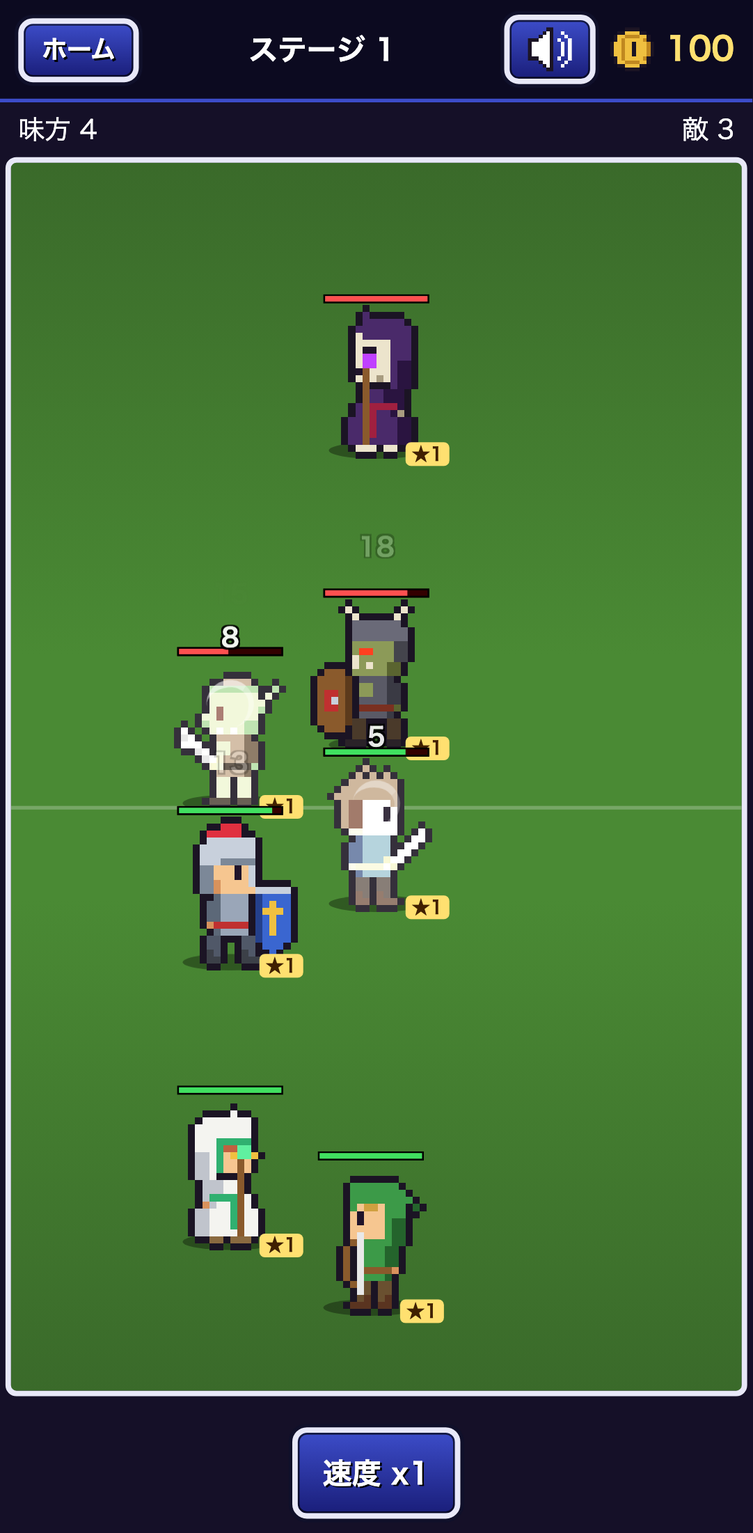
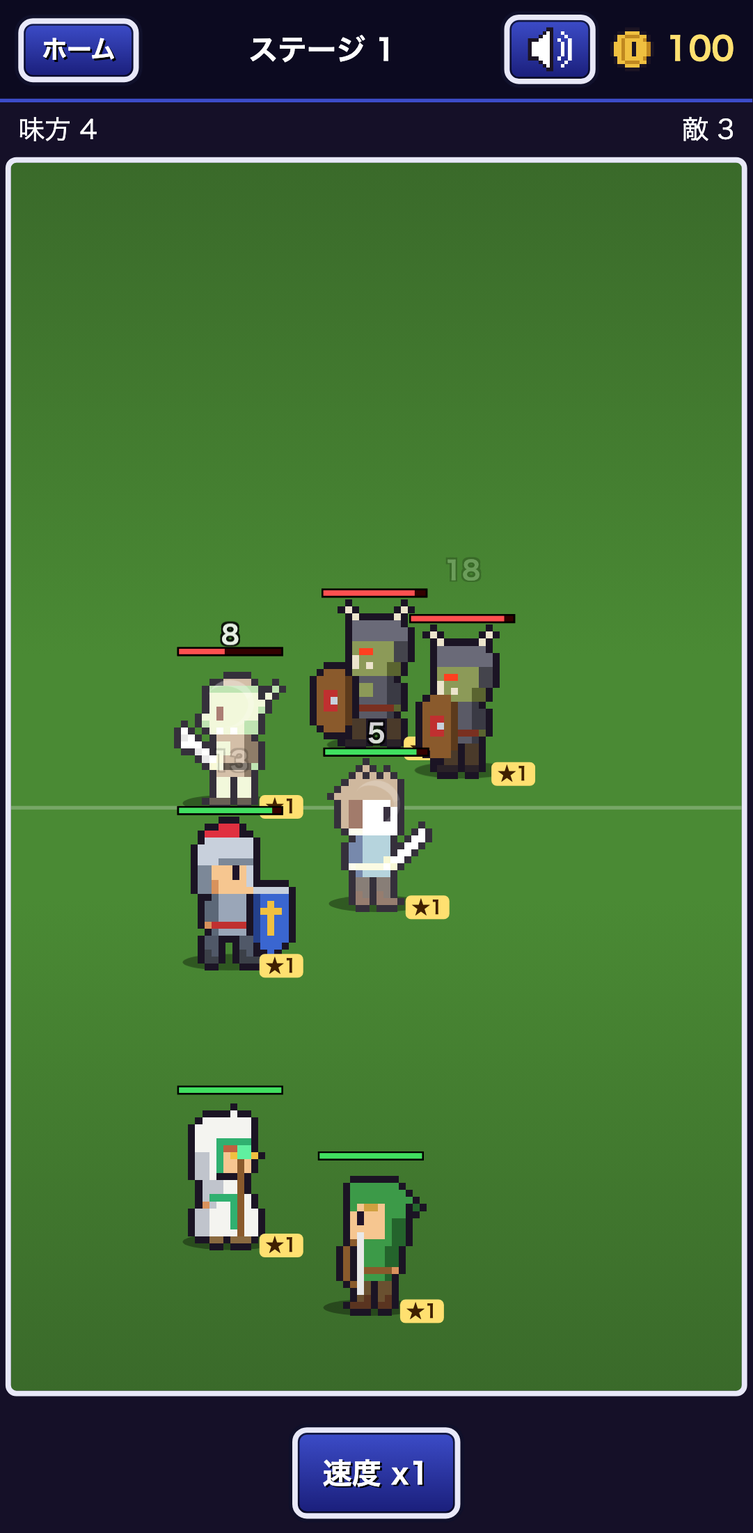
魔法を最大HP割合の範囲攻撃にし、敵も魔法を使うように変更
- 魔法使い・リッチ・召喚士の魔法は範囲内の敵全員の最大HPの一定割合を削る（防御無視、ランク・武器・バフで割合増、上限あり）
- ステージ2以降の敵編成に魔法使いを必ず配置（約8体に1体）
- 魔法範囲の表示（味方オレンジ／敵紫）、魔法ダメージの色、詳細画面の魔法割合表示
- 説明文（4言語）・README・テストを更新

diff --git a/js/i18n.js b/js/i18n.js
@@ -10,6 +10,7 @@ export const STRINGS = {
     'common.close': '閉じる',
     'common.coins': 'コイン',
     'common.stage': 'ステージ {n}',
+    'stat.magic': '魔法（最大HP比）',
     'common.bgmOn': 'BGM：オン（タップでオフ）', 'common.bgmOff': 'BGM：オフ（タップでオン）',
     'home.title': 'ホーム',
     'home.start': 'ゲームスタート',
@@ -29,9 +30,9 @@ export const STRINGS = {
     'shop.bought': '{name} を購入した！',
     'char.sword': '剣士', 'char.mage': '魔法使い', 'char.archer': '弓使い', 'char.shield': 'シールダー', 'char.healer': 'ヒーラー',
     'char.lancer': '槍使い', 'char.thief': '盗賊', 'char.enchanter': '補助魔法師', 'char.summoner': '召喚士', 'char.dragon': '召喚ドラゴン',
-    'charDesc.sword': '近接で斬る', 'charDesc.mage': '遠くから範囲魔法', 'charDesc.archer': '遠くから矢を放つ', 'charDesc.shield': '頑丈で前線を守る', 'charDesc.healer': '傷ついた味方を回復',
+    'charDesc.sword': '近接で斬る', 'charDesc.mage': '遠くから範囲魔法。範囲内の敵の最大HPの一定割合を削る（防御無視）', 'charDesc.archer': '遠くから矢を放つ', 'charDesc.shield': '頑丈で前線を守る', 'charDesc.healer': '傷ついた味方を回復',
     'charDesc.lancer': '溜めてから一直線に突進し大ダメージ（外れても止まれない）', 'charDesc.thief': '素早く前線をすり抜け、HPが低く攻撃力の高い敵を狙う',
-    'charDesc.enchanter': '近くの味方の攻撃力を上げる', 'charDesc.summoner': 'しばらく呪文を唱えてドラゴンを召喚',
+    'charDesc.enchanter': '近くの味方の攻撃力を上げる', 'charDesc.summoner': 'しばらく呪文を唱えてドラゴンを召喚（ふだんは弱い範囲魔法）',
     'mon.sword': 'ゴブリン剣士', 'mon.mage': 'スケルトンメイジ', 'mon.archer': 'リザード弓兵', 'mon.shield': 'オーク盾兵', 'mon.healer': 'キノコ僧侶',
     'stat.rank': 'ランク', 'stat.hp': 'HP', 'stat.atk': '攻撃', 'stat.def': '防御', 'stat.range': '射程', 'stat.heal': '回復', 'stat.interval': '攻撃間隔',
     'slot.weapon': '武器', 'slot.armor': '防具', 'slot.accessory': 'アクセサリ',
@@ -60,9 +61,9 @@ export const STRINGS = {
     'shop.buy10': '×10（{n}）', 'shop.buyMax': '最大 ×{k}', 'shop.recruitedMany': '{name}を {n} 体雇った！',
     'prep.enemyInfo': '{name} ★{rank}：{desc}',
     'mon.bat': 'ダークバット', 'mon.slime': '毒スライム', 'mon.golem': 'ストーンゴーレム', 'mon.dragon': 'ベビードラゴン', 'mon.lich': 'リッチ', 'mon.skeleton': 'スケルトン兵',
-    'monDesc.sword': '近接で斬りかかる', 'monDesc.mage': '遠くから範囲魔法', 'monDesc.archer': '遠くから矢を放つ', 'monDesc.shield': '頑丈な壁役', 'monDesc.healer': '仲間を回復する',
+    'monDesc.sword': '近接で斬りかかる', 'monDesc.mage': '範囲魔法で最大HPの一定割合を削る（防御無視）', 'monDesc.archer': '遠くから矢を放つ', 'monDesc.shield': '頑丈な壁役', 'monDesc.healer': '仲間を回復する',
     'monDesc.bat': '前衛を無視してHPの低い相手を急襲', 'monDesc.slime': '攻撃で毒を与える（防御無視の継続ダメージ）', 'monDesc.golem': '地面を叩き周囲に範囲ダメージ＋スタン',
-    'monDesc.dragon': '炎のブレスが一直線に貫通', 'monDesc.lich': '闇の魔法、3回に1回スケルトンを召喚', 'monDesc.skeleton': 'リッチに召喚された兵士',
+    'monDesc.dragon': '炎のブレスが一直線に貫通', 'monDesc.lich': '闇の範囲魔法で最大HPの割合を削る。3回に1回スケルトンを召喚', 'monDesc.skeleton': 'リッチに召喚された兵士',
     'prep.needUnit': 'キャラを1人以上配置してください',
     'battle.speed': '速度 x{n}',
     'battle.allies': '味方 {n}',
@@ -82,6 +83,7 @@ export const STRINGS = {
     'common.close': 'Close',
     'common.coins': 'Coins',
     'common.stage': 'Stage {n}',
+    'stat.magic': 'Magic (% max HP)',
     'common.bgmOn': 'Music: on (tap to turn off)', 'common.bgmOff': 'Music: off (tap to turn on)',
     'home.title': 'Home',
     'home.start': 'Start Game',
@@ -101,9 +103,9 @@ export const STRINGS = {
     'shop.bought': 'Bought {name}!',
     'char.sword': 'Swordsman', 'char.mage': 'Mage', 'char.archer': 'Archer', 'char.shield': 'Shielder', 'char.healer': 'Healer',
     'char.lancer': 'Lancer', 'char.thief': 'Thief', 'char.enchanter': 'Enchanter', 'char.summoner': 'Summoner', 'char.dragon': 'Summoned Dragon',
-    'charDesc.sword': 'Melee slasher', 'charDesc.mage': 'Area magic from range', 'charDesc.archer': 'Shoots arrows from range', 'charDesc.shield': 'Sturdy front-line guard', 'charDesc.healer': 'Heals wounded allies',
+    'charDesc.sword': 'Melee slasher', 'charDesc.mage': 'Area magic from range: enemies in the area lose a share of their max HP (ignores defense)', 'charDesc.archer': 'Shoots arrows from range', 'charDesc.shield': 'Sturdy front-line guard', 'charDesc.healer': 'Heals wounded allies',
     'charDesc.lancer': 'Winds up, then charges in a straight line for big damage (can\'t stop even if it misses)', 'charDesc.thief': 'Fast; slips past the front line to hit low-HP, high-attack enemies',
-    'charDesc.enchanter': 'Raises the attack of nearby allies', 'charDesc.summoner': 'Chants for a while, then summons a dragon',
+    'charDesc.enchanter': 'Raises the attack of nearby allies', 'charDesc.summoner': 'Chants for a while, then summons a dragon (weak area magic otherwise)',
     'mon.sword': 'Goblin Blade', 'mon.mage': 'Skeleton Mage', 'mon.archer': 'Lizard Archer', 'mon.shield': 'Orc Guard', 'mon.healer': 'Myconid Cleric',
     'stat.rank': 'Rank', 'stat.hp': 'HP', 'stat.atk': 'ATK', 'stat.def': 'DEF', 'stat.range': 'Range', 'stat.heal': 'Heal', 'stat.interval': 'Interval',
     'slot.weapon': 'Weapon', 'slot.armor': 'Armor', 'slot.accessory': 'Accessory',
@@ -132,9 +134,9 @@ export const STRINGS = {
     'shop.buy10': '×10 ({n})', 'shop.buyMax': 'Max ×{k}', 'shop.recruitedMany': 'Recruited {n} {name}!',
     'prep.enemyInfo': '{name} ★{rank}: {desc}',
     'mon.bat': 'Dark Bat', 'mon.slime': 'Toxic Slime', 'mon.golem': 'Stone Golem', 'mon.dragon': 'Baby Dragon', 'mon.lich': 'Lich', 'mon.skeleton': 'Skeleton',
-    'monDesc.sword': 'Melee slasher', 'monDesc.mage': 'Area magic from range', 'monDesc.archer': 'Shoots arrows from range', 'monDesc.shield': 'Sturdy wall', 'monDesc.healer': 'Heals allies',
+    'monDesc.sword': 'Melee slasher', 'monDesc.mage': 'Area magic that takes a share of max HP (ignores defense)', 'monDesc.archer': 'Shoots arrows from range', 'monDesc.shield': 'Sturdy wall', 'monDesc.healer': 'Heals allies',
     'monDesc.bat': 'Ignores the front line and dives at the weakest target', 'monDesc.slime': 'Poisons on hit (damage over time, ignores defence)', 'monDesc.golem': 'Ground slam: area damage + stun',
-    'monDesc.dragon': 'Fire breath pierces in a straight line', 'monDesc.lich': 'Dark magic; every 3rd cast raises a skeleton', 'monDesc.skeleton': 'Raised by a lich',
+    'monDesc.dragon': 'Fire breath pierces in a straight line', 'monDesc.lich': 'Dark area magic that takes a share of max HP; every 3rd cast raises a skeleton', 'monDesc.skeleton': 'Raised by a lich',
     'prep.needUnit': 'Deploy at least one unit',
     'battle.speed': 'Speed x{n}',
     'battle.allies': 'Allies {n}',
@@ -154,6 +156,7 @@ export const STRINGS = {
     'common.close': '关闭',
     'common.coins': '金币',
     'common.stage': '第 {n} 关',
+    'stat.magic': '魔法（最大生命比例）',
     'common.bgmOn': '音乐：开（点击关闭）', 'common.bgmOff': '音乐：关（点击开启）',
     'home.title': '主页',
     'home.start': '开始游戏',
@@ -173,9 +176,9 @@ export const STRINGS = {
     'shop.bought': '购买了 {name}！',
     'char.sword': '剑士', 'char.mage': '魔法师', 'char.archer': '弓箭手', 'char.shield': '盾卫', 'char.healer': '治疗师',
     'char.lancer': '枪兵', 'char.thief': '盗贼', 'char.enchanter': '辅助法师', 'char.summoner': '召唤师', 'char.dragon': '召唤龙',
-    'charDesc.sword': '近战斩击', 'charDesc.mage': '远程范围魔法', 'charDesc.archer': '远程射箭', 'charDesc.shield': '坚固的前线守卫', 'charDesc.healer': '治疗受伤的同伴',
+    'charDesc.sword': '近战斩击', 'charDesc.mage': '远程范围魔法：按最大生命值的比例削减范围内敌人的生命（无视防御）', 'charDesc.archer': '远程射箭', 'charDesc.shield': '坚固的前线守卫', 'charDesc.healer': '治疗受伤的同伴',
     'charDesc.lancer': '蓄力后直线冲锋造成大量伤害（落空也会冲出一段距离）', 'charDesc.thief': '移动迅速，穿过前排攻击生命低、攻击高的敌人',
-    'charDesc.enchanter': '提升附近同伴的攻击力', 'charDesc.summoner': '吟唱一段时间后召唤龙',
+    'charDesc.enchanter': '提升附近同伴的攻击力', 'charDesc.summoner': '吟唱一段时间后召唤龙（平时使用较弱的范围魔法）',
     'mon.sword': '哥布林剑士', 'mon.mage': '骷髅法师', 'mon.archer': '蜥蜴弓手', 'mon.shield': '兽人盾兵', 'mon.healer': '蘑菇僧侣',
     'stat.rank': '等级', 'stat.hp': 'HP', 'stat.atk': '攻击', 'stat.def': '防御', 'stat.range': '射程', 'stat.heal': '治疗', 'stat.interval': '攻击间隔',
     'slot.weapon': '武器', 'slot.armor': '防具', 'slot.accessory': '饰品',
@@ -204,9 +207,9 @@ export const STRINGS = {
     'shop.buy10': '×10（{n}）', 'shop.buyMax': '最大 ×{k}', 'shop.recruitedMany': '招募了 {n} 个{name}！',
     'prep.enemyInfo': '{name} ★{rank}：{desc}',
     'mon.bat': '暗影蝙蝠', 'mon.slime': '毒史莱姆', 'mon.golem': '岩石魔像', 'mon.dragon': '幼龙', 'mon.lich': '巫妖', 'mon.skeleton': '骷髅兵',
-    'monDesc.sword': '近战斩击', 'monDesc.mage': '远程范围魔法', 'monDesc.archer': '远程射箭', 'monDesc.shield': '坚固的盾墙', 'monDesc.healer': '治疗同伴',
+    'monDesc.sword': '近战斩击', 'monDesc.mage': '范围魔法，按最大生命值比例造成伤害（无视防御）', 'monDesc.archer': '远程射箭', 'monDesc.shield': '坚固的盾墙', 'monDesc.healer': '治疗同伴',
     'monDesc.bat': '无视前排，突袭生命最低的目标', 'monDesc.slime': '攻击附带中毒（无视防御的持续伤害）', 'monDesc.golem': '重击地面：范围伤害＋眩晕',
-    'monDesc.dragon': '火焰吐息直线贯穿', 'monDesc.lich': '暗黑魔法，每3次召唤一名骷髅兵', 'monDesc.skeleton': '被巫妖召唤的士兵',
+    'monDesc.dragon': '火焰吐息直线贯穿', 'monDesc.lich': '暗黑范围魔法按最大生命值比例造成伤害，每3次召唤一名骷髅兵', 'monDesc.skeleton': '被巫妖召唤的士兵',
     'prep.needUnit': '请至少布置一名角色',
     'battle.speed': '速度 x{n}',
     'battle.allies': '我方 {n}',
@@ -226,6 +229,7 @@ export const STRINGS = {
     'common.close': '닫기',
     'common.coins': '코인',
     'common.stage': '스테이지 {n}',
+    'stat.magic': '마법 (최대 HP 비율)',
     'common.bgmOn': '배경음악: 켜짐 (탭하여 끄기)', 'common.bgmOff': '배경음악: 꺼짐 (탭하여 켜기)',
     'home.title': '홈',
     'home.start': '게임 시작',
@@ -245,9 +249,9 @@ export const STRINGS = {
     'shop.bought': '{name} 구매 완료!',
     'char.sword': '검사', 'char.mage': '마법사', 'char.archer': '궁수', 'char.shield': '실더', 'char.healer': '힐러',
     'char.lancer': '창술사', 'char.thief': '도적', 'char.enchanter': '보조 마법사', 'char.summoner': '소환사', 'char.dragon': '소환 드래곤',
-    'charDesc.sword': '근접 베기', 'charDesc.mage': '원거리 범위 마법', 'charDesc.archer': '원거리 화살', 'charDesc.shield': '튼튼한 전열 수비', 'charDesc.healer': '다친 아군 회복',
+    'charDesc.sword': '근접 베기', 'charDesc.mage': '원거리 범위 마법: 범위 안 적의 최대 HP를 일정 비율 깎음 (방어 무시)', 'charDesc.archer': '원거리 화살', 'charDesc.shield': '튼튼한 전열 수비', 'charDesc.healer': '다친 아군 회복',
     'charDesc.lancer': '힘을 모은 뒤 일직선으로 돌진해 큰 피해 (빗나가도 멈추지 못함)', 'charDesc.thief': '빠르게 전열을 빠져나가 HP가 낮고 공격력이 높은 적을 노림',
-    'charDesc.enchanter': '주변 아군의 공격력 상승', 'charDesc.summoner': '한동안 주문을 외운 뒤 드래곤 소환',
+    'charDesc.enchanter': '주변 아군의 공격력 상승', 'charDesc.summoner': '한동안 주문을 외운 뒤 드래곤 소환 (평소에는 약한 범위 마법)',
     'mon.sword': '고블린 검사', 'mon.mage': '스켈레톤 메이지', 'mon.archer': '리자드 궁수', 'mon.shield': '오크 방패병', 'mon.healer': '버섯 사제',
     'stat.rank': '랭크', 'stat.hp': 'HP', 'stat.atk': '공격', 'stat.def': '방어', 'stat.range': '사거리', 'stat.heal': '회복', 'stat.interval': '공격 간격',
     'slot.weapon': '무기', 'slot.armor': '방어구', 'slot.accessory': '액세서리',
@@ -276,9 +280,9 @@ export const STRINGS = {
     'shop.buy10': '×10 ({n})', 'shop.buyMax': '최대 ×{k}', 'shop.recruitedMany': '{name} {n}명을 고용했다!',
     'prep.enemyInfo': '{name} ★{rank}: {desc}',
     'mon.bat': '다크 배트', 'mon.slime': '독 슬라임', 'mon.golem': '스톤 골렘', 'mon.dragon': '베이비 드래곤', 'mon.lich': '리치', 'mon.skeleton': '스켈레톤 병사',
-    'monDesc.sword': '근접 베기', 'monDesc.mage': '원거리 범위 마법', 'monDesc.archer': '원거리 화살', 'monDesc.shield': '튼튼한 방패벽', 'monDesc.healer': '아군 회복',
+    'monDesc.sword': '근접 베기', 'monDesc.mage': '범위 마법으로 최대 HP의 일정 비율을 깎음 (방어 무시)', 'monDesc.archer': '원거리 화살', 'monDesc.shield': '튼튼한 방패벽', 'monDesc.healer': '아군 회복',
     'monDesc.bat': '전열을 무시하고 HP가 낮은 적을 급습', 'monDesc.slime': '공격 시 독 부여 (방어 무시 지속 피해)', 'monDesc.golem': '지면 강타: 범위 피해 + 기절',
-    'monDesc.dragon': '화염 브레스가 일직선으로 관통', 'monDesc.lich': '암흑 마법, 3번에 1번 스켈레톤 소환', 'monDesc.skeleton': '리치가 소환한 병사',
+    'monDesc.dragon': '화염 브레스가 일직선으로 관통', 'monDesc.lich': '암흑 범위 마법으로 최대 HP 비율 피해, 3번에 1번 스켈레톤 소환', 'monDesc.skeleton': '리치가 소환한 병사',
     'prep.needUnit': '캐릭터를 1명 이상 배치하세요',
     'battle.speed': '속도 x{n}',
     'battle.allies': '아군 {n}',

diff --git a/js/data.js b/js/data.js
@@ -37,7 +37,9 @@ export function centerCols(cols) {
 
 export const BASE = {
   sword:  { hp: 130, atk: 24, def: 6,  range: 1.1, speed: 1.3,  interval: 1.0 },
-  mage:   { hp: 75,  atk: 28, def: 2,  range: 3.2, speed: 0.9,  interval: 1.7, splash: 0.9, pw: 1.3 },
+  // mage: area magic — every enemy within `radius` of the target loses a share of its MAX HP
+  // (ignores defence; the share grows with rank, weapons and buffs, up to `max`)
+  mage:   { hp: 75,  atk: 28, def: 2,  range: 3.2, speed: 0.9,  interval: 1.7, magic: { pct: 0.08, perRank: 0.0006, max: 0.25, radius: 1.25 }, pw: 1.5 },
   archer: { hp: 85,  atk: 19, def: 3,  range: 4.2, speed: 1.0,  interval: 1.15 },
   shield: { hp: 240, atk: 11, def: 14, range: 1.1, speed: 0.85, interval: 1.3 },
   healer: { hp: 85,  atk: 9,  def: 3,  range: 3.0, speed: 0.95, interval: 1.8, heal: 18 },
@@ -50,7 +52,7 @@ export const BASE = {
   // enchanter: raises the attack of nearby allies (+20%, +0.3% per rank, up to +100%) for a while
   enchanter: { hp: 80,  atk: 8,  def: 3, range: 2.6, speed: 0.95, interval: 2.4, buff: { radius: 2.2, dur: 3.5, base: 0.2, perRank: 0.003 } },
   // summoner: chants for a while, then calls a dragon (one at a time); weak magic otherwise
-  summoner:  { hp: 80,  atk: 10, def: 3, range: 3.0, speed: 0.85, interval: 1.8, summon: 'dragon', chant: 4.0 },
+  summoner:  { hp: 80,  atk: 10, def: 3, range: 3.0, speed: 0.85, interval: 1.8, summon: 'dragon', chant: 4.0, magic: { pct: 0.03, perRank: 0.0003, max: 0.1, radius: 0.9 } },
   // ---- monster-only types (each has its own attack style) ----
   // bat: fast flyer (passes over other units) that ignores the front line and dives at the weakest (lowest HP) target
   bat:      { hp: 70,  atk: 16, def: 2,  range: 1.0, speed: 2.4,  interval: 0.8, assassin: true, fly: true, pw: 1.1 },
@@ -61,7 +63,7 @@ export const BASE = {
   // dragon: fire breath that pierces through the target and burns everyone behind it
   dragon:   { hp: 160, atk: 26, def: 6,  range: 2.6, speed: 0.8,  interval: 2.0, pierce: 2.0, pw: 1.3 },
   // lich: dark bolts, and every 3rd cast raises a skeleton soldier (max 2 alive per lich)
-  lich:     { hp: 110, atk: 18, def: 4,  range: 3.2, speed: 0.8,  interval: 1.8, summon: 'skeleton', pw: 1.6 },
+  lich:     { hp: 110, atk: 18, def: 4,  range: 3.2, speed: 0.8,  interval: 1.8, summon: 'skeleton', magic: { pct: 0.04, perRank: 0.0004, max: 0.15, radius: 1.0 }, pw: 1.8 },
   // skeleton: summoned by the lich
   skeleton: { hp: 60,  atk: 14, def: 2,  range: 1.1, speed: 1.4,  interval: 1.0 },
 };
@@ -95,7 +97,7 @@ export function computeStats(type, rank = 1, equip = {}, mult = 1) {
     range: b.range,
     speed: b.speed,
     interval: b.interval,
-    splash: b.splash || 0,
+    magic: b.magic ? { pct: +Math.min(b.magic.max, b.magic.pct + b.magic.perRank * (rank - 1)).toFixed(4), radius: b.magic.radius } : null,
     heal: b.heal ? Math.round(b.heal * rm) : 0,
     assassin: !!b.assassin, fly: !!b.fly, poison: b.poison || 0, slam: b.slam || 0, stun: b.stun || 0,
     pierce: b.pierce || 0, summon: b.summon || null,
@@ -158,7 +160,9 @@ function enemyComposition(stage) {
   // and at most 2 liches (summoners).
   const counts = {};
   let ranged = 0;
-  const allowed = (t) => (counts[t] || 0) < (t === 'lich' ? 2 : Math.max(2, Math.ceil(count / 4)))
+  // enemies use magic too: from stage 2 every wave has exactly this many mages (about 1 in 8 monsters)
+  const mageQuota = stage >= 2 ? Math.max(1, Math.round(count / 8)) : 0;
+  const allowed = (t) => (counts[t] || 0) < (t === 'lich' ? 2 : t === 'mage' ? mageQuota : Math.max(2, Math.ceil(count / 4)))
     && (MELEE_FRONT.has(t) || ranged < Math.floor(count / 2));
   const pick = () => {
     const opts = pool.filter(allowed);
@@ -174,8 +178,11 @@ function enemyComposition(stage) {
   const newcomer = pool.find((t) => MONSTER_UNLOCK[t] === stage && stage > 1);
   const list = [];
   for (let i = 0; i < count; i++) {
-    let type = i === 0 ? (rnd() < 0.5 ? 'sword' : 'shield') : pick();
-    if (i === 1 && newcomer) type = newcomer;               // show off a newly unlocked monster
+    let type;
+    if (i === 0) type = rnd() < 0.5 ? 'sword' : 'shield';
+    else if (i === 1 && newcomer) type = newcomer;           // show off a newly unlocked monster
+    else if ((counts.mage || 0) < mageQuota && allowed('mage')) { type = 'mage'; rnd(); }
+    else type = pick();
     counts[type] = (counts[type] || 0) + 1; if (!MELEE_FRONT.has(type)) ranged++;
     const spread = (rnd() * 2 - 1) * 0.2;                  // ranks vary ±20% inside a wave
     const rank = Math.max(1, Math.min(ENEMY_MAX_RANK, Math.round(avgRank * (1 + spread))));

diff --git a/js/battle.js b/js/battle.js
@@ -15,7 +15,8 @@ export function makeUnit({ team, type, rank, equip, cell, mult = 1, charId = nul
     uid: uidSeq++, charId, team, type, rank,
     x: p.x, y: p.y,
     hp: st.maxHp, maxHp: st.maxHp, atk: st.atk, def: st.def,
-    range: st.range, speed: st.speed, interval: st.interval, splash: st.splash, heal: st.heal,
+    range: st.range, speed: st.speed, interval: st.interval, magic: st.magic, heal: st.heal,
+    atk0: computeStats(type, rank, {}, mult).atk,   // attack without equipment (weapons scale magic)
     prey: st.prey, charge: st.charge, chant: st.chant, buff: st.buff,
     buffUntil: 0, buffAmt: 0, chargeLeft: 0, chargeDx: 0, chargeDy: 0, chargeHit: null,
     assassin: st.assassin, fly: st.fly, poison: st.poison, slam: st.slam, stun: st.stun, pierce: st.pierce, summon: st.summon,
@@ -102,6 +103,23 @@ export class Battle {
     if (this.trace) this.trace.push({ t: this.time, kind: 'damage', from: attacker.uid, to: target.uid, amount: dmg, hp: target.hp });
     if (target.hp <= 0) this.kill(target);
     return dmg;
+  }
+
+  // Magic: every enemy within the radius around `center` loses a share of its max HP (ignores defence).
+  // Weapons and the enchanter's buff raise the share in proportion to the attack they add.
+  magicPct(u) { return u.magic.pct * (this.atkOf(u) / Math.max(1, u.atk0)); }
+  applyMagic(u, center) {
+    const pct = this.magicPct(u);
+    this.events.push({ type: 'magic', uid: u.uid, x: center.x, y: center.y, r: u.magic.radius });
+    for (const o of this.enemiesOf(u)) {
+      if (o !== center && this.dist(o, center) > u.magic.radius) continue;
+      if (!this.alive(o)) continue;
+      const dmg = Math.max(1, Math.round(o.maxHp * pct * (0.95 + this.rnd() * 0.1)));
+      o.hp = Math.max(0, o.hp - dmg);
+      this.events.push({ type: 'damage', uid: o.uid, amount: dmg, from: u.uid, kind: 'magic' });
+      if (this.trace) this.trace.push({ t: this.time, kind: 'damage', magic: true, from: u.uid, to: o.uid, amount: dmg, hp: o.hp });
+      if (o.hp <= 0) this.kill(o);
+    }
   }
 
   // Poison damage (ignores defence). `src` is the poisoner (must be on the other team).
@@ -256,6 +274,7 @@ export class Battle {
     if (u.action === 'buff') { this.applyBuff(u); return; }
     if (u.action === 'summon') { u.casts++; this.doSummon(u, tgt); return; }
     u.casts++;
+    if (u.magic) { this.applyMagic(u, tgt); return; }
     this.applyDamage(u, tgt);
     if (u.poison && this.alive(tgt)) {
       // (re)apply poison: deals atk * poison per second for 4s
@@ -280,11 +299,6 @@ export class Battle {
         if (o === tgt) continue;
         const px = o.x - u.x, py = o.y - u.y, along = px * dx + py * dy;
         if (along > 0 && along <= d + u.pierce && Math.abs(px * dy - py * dx) <= 0.5) this.applyDamage(u, o, this.atkOf(u) * 0.7);
-      }
-    }
-    if (u.splash) {
-      for (const o of this.enemiesOf(u)) {
-        if (o !== tgt && this.dist(o, tgt) <= u.splash) this.applyDamage(u, o, this.atkOf(u) * 0.5);
       }
     }
   }

diff --git a/tests/unit/logic.test.js b/tests/unit/logic.test.js
@@ -321,3 +321,43 @@ test('battles on the big board use the whole 10-wide field', () => {
   run(bt, 3);
   assert.ok(a.x > 5, 'not clamped to the small board');
 });
+
+// ---------- magic: share of max HP, area, both teams ----------
+test('magic takes a share of MAX HP from every enemy in the area (ignores defence)', () => {
+  const mage = makeUnit({ team: 'ally', type: 'mage', rank: 1, cell: 12 });
+  const tgt = makeUnit({ team: 'enemy', type: 'shield', rank: 50, cell: 7 });     // huge HP & DEF
+  const near = makeUnit({ team: 'enemy', type: 'sword', rank: 1, cell: 7 }); near.x = tgt.x + 1;   // inside radius 1.25
+  const far = makeUnit({ team: 'enemy', type: 'sword', rank: 1, cell: 7 }); far.x = tgt.x + 2;     // outside
+  const buddy = makeUnit({ team: 'ally', type: 'sword', rank: 1, cell: 7 }); buddy.x = tgt.x; buddy.y = tgt.y + 0.3;
+  const bt = new Battle({ allies: [mage, buddy], enemies: [tgt, near, far] });
+  bt.rnd = () => 0.5;
+  bt.applyMagic(mage, tgt);
+  assert.equal(mage.magic.pct, 0.08);
+  assert.equal(tgt.maxHp - tgt.hp, Math.round(tgt.maxHp * 0.08), 'share of max HP, defence ignored');
+  assert.equal(near.maxHp - near.hp, Math.round(near.maxHp * 0.08), 'area');
+  assert.equal(far.hp, far.maxHp, 'outside the area');
+  assert.equal(buddy.hp, buddy.maxHp, 'no friendly fire');
+});
+
+test('magic share grows with rank (capped) and with weapons / buffs', () => {
+  const pct = (rank, equip = {}) => { const u = makeUnit({ team: 'ally', type: 'mage', rank, equip, cell: 12 }); return new Battle({ allies: [u], enemies: [] }).magicPct(u); };
+  assert.ok(pct(50) > pct(1) && pct(100) > pct(50));
+  assert.equal(pct(100000), 0.25, 'capped at 25%');
+  assert.ok(pct(1, { weapon: 'mythril_sword' }) > pct(1) * 1.4, 'weapon raises the share');
+});
+
+test('enemies use magic too: waves have mages from stage 2, and they hit allies by % of max HP', () => {
+  assert.equal(enemyWave(1).units.filter((u) => u.type === 'mage').length, 0);
+  for (const st of [2, 5, 20, 60, 99, 100, 135]) {
+    const w = enemyWave(st); const n = w.units.filter((u) => u.type === 'mage').length;
+    assert.equal(n, Math.max(1, Math.round(w.units.length / 8)), `stage ${st}`);
+  }
+  // a weak enemy mage still hurts a ★1000 ally: the damage scales with the ally's max HP
+  const em = makeUnit({ team: 'enemy', type: 'mage', rank: 1, cell: 2 });
+  const big = makeUnit({ team: 'ally', type: 'shield', rank: 1000, cell: 2 });
+  const bt = new Battle({ allies: [big], enemies: [em] }); bt.trace = [];
+  let t = 0; while (!bt.trace.some((x) => x.magic) && t++ < 1200) bt.step(1 / 60);
+  const hit = bt.trace.find((x) => x.magic);
+  assert.ok(hit && hit.to === big.uid);
+  assert.ok(Math.abs(hit.amount / big.maxHp - 0.08) < 0.01, 'about 8% of max HP');
+});

diff --git a/tests/game.spec.js b/tests/game.spec.js
@@ -393,7 +393,7 @@ test('味方同士・敵同士の攻撃はダメージを与えない', async ({
   expect(r.aa).toBe(0); expect(r.aaHp[1]).toBe(r.aaHp[0]);
   expect(r.ee).toBe(0); expect(r.eeHp[1]).toBe(r.eeHp[0]);
   expect(r.ae).toBeGreaterThan(0); expect(r.aeHp[1]).toBeLessThan(r.aeHp[0]);
-  // full battle: every damage event crosses teams (including mage splash)
+  // full battle: every damage event crosses teams (including area magic)
   await page.evaluate(() => __game.setSpeed(8));
   await waitResult(page);
   const bad = await page.evaluate(() => {
@@ -695,4 +695,28 @@ test('PWA: マニフェストとアイコンが有効で、Service Worker によ
   await page.click('#btn-home-start');
   await expect(page.locator('#prep-panel')).toBeVisible();
   await context.setOffline(false);
+});
+
+test('魔法：敵も魔法を使い、範囲内の相手の最大HPの割合でダメージを与える', async ({ page }) => {
+  await gotoPrep(page, { stage: 2 });
+  // stage 2 already has an enemy mage
+  await expect(page.locator('.unit.team-enemy[data-type="mage"]')).toHaveCount(1);
+  // put our mage on the field too
+  await page.evaluate(() => { const s = __game.store; const m = s.data.roster.find((c) => c.type === 'mage'); s.place(m.id, 7); __game.refresh(); });
+  await expect(page.locator('.unit.placed[data-type="mage"]')).toHaveCount(1);
+  await startBattle(page, { speed: 1 });
+  // both sides cast: the area of the spell is drawn (orange = ours, purple = enemy)
+  await page.waitForSelector('.magic-area.enemy', { state: 'attached', timeout: 20_000 });
+  await page.waitForSelector('.magic-area:not(.enemy)', { state: 'attached', timeout: 20_000 });
+  await page.waitForSelector('.dmg.magic', { state: 'attached' });
+  const hits = await page.evaluate(() => __game.battle.trace.filter((x) => x.magic).map((x) => {
+    const b = __game.battle; const all = [...b.units, ...b.removed];
+    const from = all.find((u) => u.uid === x.from), to = all.find((u) => u.uid === x.to);
+    return { from: from.team, to: to.team, ratio: x.amount / to.maxHp, pct: from.magic.pct };
+  }));
+  expect(hits.some((h) => h.from === 'enemy')).toBe(true);
+  for (const h of hits) {
+    expect(h.from).not.toBe(h.to);
+    expect(Math.abs(h.ratio - h.pct)).toBeLessThan(0.02);   // share of the target's max HP
+  }
 });

diff --git a/js/main.js b/js/main.js
@@ -277,6 +277,8 @@ function openCharDetail(id) {
     const tbl = el('table', 'stat-table');
     const rows = [['stat.hp', s.maxHp], ['stat.atk', s.atk], ['stat.def', s.def], ['stat.range', s.range], ['stat.interval', s.interval + 's']];
     if (s.heal) rows.push(['stat.heal', s.heal]);
+    // magic: share of the target's max HP per hit (weapons raise it in proportion to the attack they add)
+    if (s.magic) rows.push(['stat.magic', (s.magic.pct * s.atk / computeStats(c.type, c.rank).atk * 100).toFixed(1) + '%']);
     for (const [k, v] of rows) { const tr = el('tr'); tr.innerHTML = `<td>${t(k)}</td><td data-stat="${k}">${v}</td>`; tbl.appendChild(tr); }
     box.appendChild(tbl);
     const acts = el('div', 'seg');
@@ -671,10 +673,10 @@ function handleEvents(b) {
       }
       case 'damage': {
         if (!u) break;
-        fxAt(ev.kind === 'poison' ? 'dmg poison' : 'dmg', u.x, u.y - 0.9, ev.amount);
+        fxAt(ev.kind === 'poison' ? 'dmg poison' : ev.kind === 'magic' ? 'dmg magic' : 'dmg', u.x, u.y - 0.9, ev.amount);
         const ue = G.unitEls.get(ev.uid);
         if (ue) { ue.classList.add('hit'); setTimeout(() => ue.classList.remove('hit'), 120); }
-        const att = b.get(ev.from); if (att && att.type === 'mage') fxAt('burst', u.x, u.y - 0.35);
+        if (ev.kind === 'magic') { const att = b.get(ev.from); fxAt('burst' + (att && att.team === 'enemy' ? ' dark-burst' : ''), u.x, u.y - 0.35); }
         break;
       }
       case 'breath': {
@@ -686,6 +688,13 @@ function handleEvents(b) {
         break;
       }
       case 'slam': fxAt('quake', ev.x, ev.y); break;
+      case 'magic': {   // area of the spell (everyone inside loses a share of max HP)
+        const a = b.get(ev.uid) || b.removed.find((r) => r.uid === ev.uid);
+        const e = fxAt('magic-area' + (a && a.team === 'enemy' ? ' enemy' : ''), ev.x, ev.y);
+        e.style.width = ev.r * 2 * G.cs + 'px'; e.style.height = ev.r * G.cs + 'px';
+        e.style.margin = `${-ev.r * G.cs / 2}px 0 0 ${-ev.r * G.cs}px`;
+        break;
+      }
       case 'charge': if (u) fxAt('dust', u.x, u.y); break;
       case 'chant': break; // shown by the .state-cast magic circle
       case 'summon': if (u) fxAt('burst necro-burst', u.x, u.y - 0.35); break;

diff --git a/css/style.css b/css/style.css
@@ -105,6 +105,7 @@ img, .sprite { image-rendering: pixelated; image-rendering: crisp-edges; }
 /* FX */
 .dmg { position: absolute; font-weight: bold; color: #fff; text-shadow: 1px 1px 0 #000, -1px -1px 0 #000, 1px -1px 0 #000, -1px 1px 0 #000; animation: floatup .8s forwards; font-size: 14px; transform: translateX(-50%); }
 .dmg.heal { color: #70ff90; }
+.dmg.magic { color: #8fd8ff; }
 @keyframes floatup { from { opacity: 1; translate: 0 0; } to { opacity: 0; translate: 0 -26px; } }
 .proj { position: absolute; width: 10px; height: 10px; margin: -5px 0 0 -5px; transition-property: left, top; transition-timing-function: linear; }
 .proj.arrow { width: 14px; height: 3px; margin: -1px 0 0 -7px; background: linear-gradient(90deg, #a07040 70%, #e0e0e0 70%); }
@@ -114,6 +115,9 @@ img, .sprite { image-rendering: pixelated; image-rendering: crisp-edges; }
 .dmg.poison { color: #d080ff; font-size: 12px; }
 .breath { position: absolute; height: 12px; margin-top: -6px; transform-origin: 0 50%; border-radius: 6px; background: linear-gradient(90deg, #fff6a0, #ffb030 30%, #ff5020 80%, transparent); box-shadow: 0 0 10px #ff7a30; animation: breath .45s forwards; }
 @keyframes breath { from { opacity: 1; clip-path: inset(0 100% 0 0); } 40% { opacity: 1; clip-path: inset(0 0 0 0); } to { opacity: 0; } }
+.magic-area { position: absolute; border-radius: 50%; border: 3px solid #ff9a40; background: radial-gradient(#ffcf6055, #ff6a2033 60%, transparent 72%); box-shadow: 0 0 12px #ff9a40; animation: quake .5s forwards; pointer-events: none; }
+.magic-area.enemy { border-color: #c060ff; background: radial-gradient(#d080ff55, #7020c033 60%, transparent 72%); box-shadow: 0 0 12px #c060ff; }
+.burst.dark-burst { background: radial-gradient(#fff8, #b050ff88 50%, transparent 70%); }
 .quake { position: absolute; width: 90px; height: 34px; margin: -17px 0 0 -45px; border-radius: 50%; border: 4px solid #d8c8a0; animation: quake .45s forwards; }
 @keyframes quake { from { scale: .2; opacity: 1; } to { scale: 1.3; opacity: 0; } }
 .summon-circle { position: absolute; width: 40px; height: 16px; margin: -8px 0 0 -20px; border-radius: 50%; border: 3px solid #40ff90; box-shadow: 0 0 10px #40ff90; animation: quake .6s forwards; }

diff --git a/README.md b/README.md
@@ -22,6 +22,9 @@ npm start            # python3 -m http.server 8080
   - 一括合体・おまかせ編成・まとめて雇用は、直後に表示される「元に戻す」で取り消せる（6秒間）
 - バトル開始 → 各キャラが射程まで移動して自動攻撃。全滅した側の負け
 - 勝利で多くのコイン＋次ステージ、敗北で少しのコイン＋リトライ。ステージが進むほど敵が緩やかに強化（序盤は1ステージ約+20%、ステージ100付近は約+7%、全100ステージ想定、ステージ100は★80〜100＋装備が目安。100以降も続行可）
+- 魔法（魔法使い・リッチ・召喚士のふだんの攻撃）は範囲攻撃。狙った相手の周囲（魔法使いは半径1.25マス）にいる敵全員の「最大HPの一定割合」を削る（防御無視）
+  - 割合：魔法使い 8%＋ランクごとに0.06%（最大25%）、リッチ 4%＋0.04%（最大15%）、召喚士 3%＋0.03%（最大10%）。武器や補助魔法師の攻撃力アップでも割合が上がる（詳細画面の「魔法（最大HP比）」に表示）
+  - 敵も魔法を使う：ステージ2以降の敵編成には必ず魔法使いがいる（およそ8体に1体）。高ランクの味方でも最大HPの割合で削られるので、回復役や魔法使いを先に倒す編成が有効
 - 仲間は9職。ショップで雇用（初期メンバーは剣士・魔法使い・弓使い・シールダー・ヒーラー）
   - 槍使い：溜め（約1.1秒）の後、一直線に一定距離を突進して大ダメージ。外れても止まれない
   - 盗賊：足が速くHPは低い。前線をすり抜け、HPが低く攻撃力の高い敵を優先して狙う
